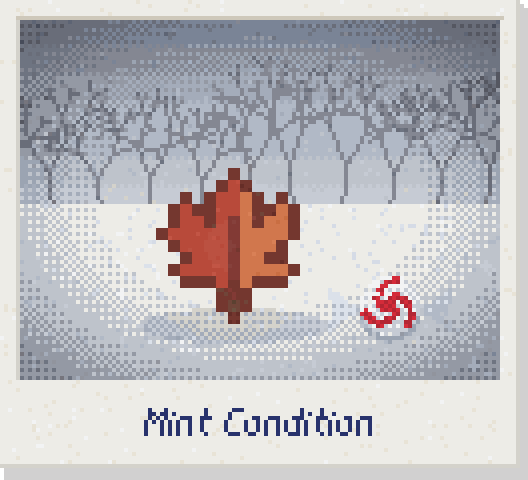
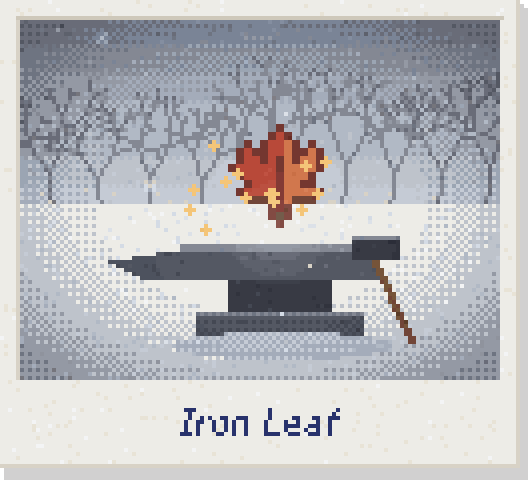
Iron Leaf: the 90%-integrity planting achievement (was Mint Condition), with a new polaroid (the leaf on an anvil in the snow)

diff --git a/web/src/game/achievements.ts b/web/src/game/achievements.ts
@@ -51,7 +51,7 @@ export const ACHIEVEMENTS: Achievement[] = [
   { id: "drop", icon: "⬇", name: "Drop It Like It's Hot", desc: "Dive from the rooftops into the subway in one go.", hint: "Top floor to basement, no stops." },
   // ---- the end
   { id: "plant", icon: "🌱", name: "The Last Leaf", desc: "Plant your seed in Central Park.", hint: "Finish what the tree started." },
-  { id: "mint", icon: "🪙", name: "Mint Condition", desc: "Plant your seed with the leaf barely scratched.", hint: "Arrive looking your best." },
+  { id: "mint", icon: "🪙", name: "Iron Leaf", desc: "Plant your seed with 90% or more of the leaf left.", hint: "Arrive in one piece. Nearly." },
   { id: "quick", icon: "⏱", name: "Leaf Blower", desc: "Plant your seed in under fifteen minutes.", hint: "The park, against the clock." },
 ];
 

diff --git a/web/tools/achievements/snapshots.py b/web/tools/achievements/snapshots.py
@@ -1347,7 +1347,8 @@ def s_plant(rnd):
 
 
 def s_mint(rnd):
-    """Mint Condition: on fresh snow, the leaf without a scratch, and a peppermint beside it"""
+    """Iron Leaf: the leaf, barely a mark on it, laid on a blacksmith's anvil in the snow, the hammer
+    beside it and sparks still flying (it came through 8.8 km of city at 90% or better)"""
     cv = Canvas()
     sky(cv, COLD, 0, 50)
     for x in range(-4, W, 12):
@@ -1355,19 +1356,23 @@ def s_mint(rnd):
     cv.rect(0, 46, W, 44, (236, 240, 246))
     for _ in range(60):
         cv.put(rnd.randrange(W), rnd.randrange(48, H), (214, 222, 234))
-    for _ in range(8):
-        sparkle(cv, rnd.randrange(W), rnd.randrange(52, H), (255, 255, 255), 1)
-    cv.ellipse(30, 72, 76, 80, (204, 214, 228))
-    leaf_on(cv, 52, 76, scale=3, outline=(110, 40, 30))
-    cv.poly([(84, 72), (77, 67), (78, 72), (77, 77)], (226, 232, 240)); cv.poly([(100, 72), (107, 67), (106, 72), (107, 77)], (226, 232, 240))
-    disc(cv, 92, 72, 8, (186, 196, 210)); disc(cv, 92, 71, 7.5, (250, 250, 250))
-    for k in range(3):
-        for i in range(14):
-            a = k * 2 * math.pi / 3 + i * 0.22
-            r = i * 0.5
-            disc(cv, 92 + math.cos(a) * r, 71 + math.sin(a) * r, 1.0, (222, 40, 52))
-    cv.put(89, 68, (255, 255, 255))
-    finish(cv, rnd, vig=0.38, grain=0.08, bloom=(52, 56, 40, 0.14))
+    # the anvil: horn to the left, face, waist, foot
+    D, M, L = (46, 48, 56), (78, 82, 92), (130, 136, 150)
+    cv.poly([(22, 60), (40, 57), (40, 64), (30, 64)], M)                 # horn
+    cv.rect(40, 56, 50, 9, M); cv.rect(40, 56, 50, 2, L)                # face, lit edge
+    cv.rect(52, 65, 26, 8, D)                                            # waist
+    cv.rect(44, 73, 42, 6, M); cv.rect(44, 73, 42, 1, L)                # foot
+    cv.ellipse(38, 78, 92, 84, (204, 214, 228))                          # its shadow in the snow
+    # the leaf on the face, crisp and whole
+    leaf_on(cv, 64, 52, scale=2, outline=(110, 40, 30))
+    # the hammer leaning on the anvil
+    cv.line([(98, 80), (88, 58)], (120, 82, 50), 2)
+    cv.rect(83, 54, 12, 6, D); cv.rect(83, 54, 12, 1, L)
+    # sparks
+    for _ in range(14):
+        sparkle(cv, 64 + rnd.randint(-22, 22), 44 + rnd.randint(-14, 8), (255, 200, 110), 1)
+    snowfall(cv, rnd, 14, 3)
+    finish(cv, rnd, vig=0.38, grain=0.08, bloom=(64, 50, 40, 0.18))
     return cv
 
 
@@ -1406,7 +1411,7 @@ SCENES = {
     "vent": (s_vent, "Mind the Gap"), "cab": (s_cab, "Cab Surfer"), "mole": (s_mole, "Mole Person"),
     "high": (s_high, "Bird's Eye View"), "fast": (s_fast, "Speed of Leaf"), "spin": (s_spin, "Spin Cycle"),
     "loop": (s_loop, "Loop de Leaf"), "drop": (s_drop, "Drop It Like It's Hot"),
-    "plant": (s_plant, "The Last Leaf"), "mint": (s_mint, "Mint Condition"), "quick": (s_quick, "Leaf Blower"),
+    "plant": (s_plant, "The Last Leaf"), "mint": (s_mint, "Iron Leaf"), "quick": (s_quick, "Leaf Blower"),
 }
 
 
